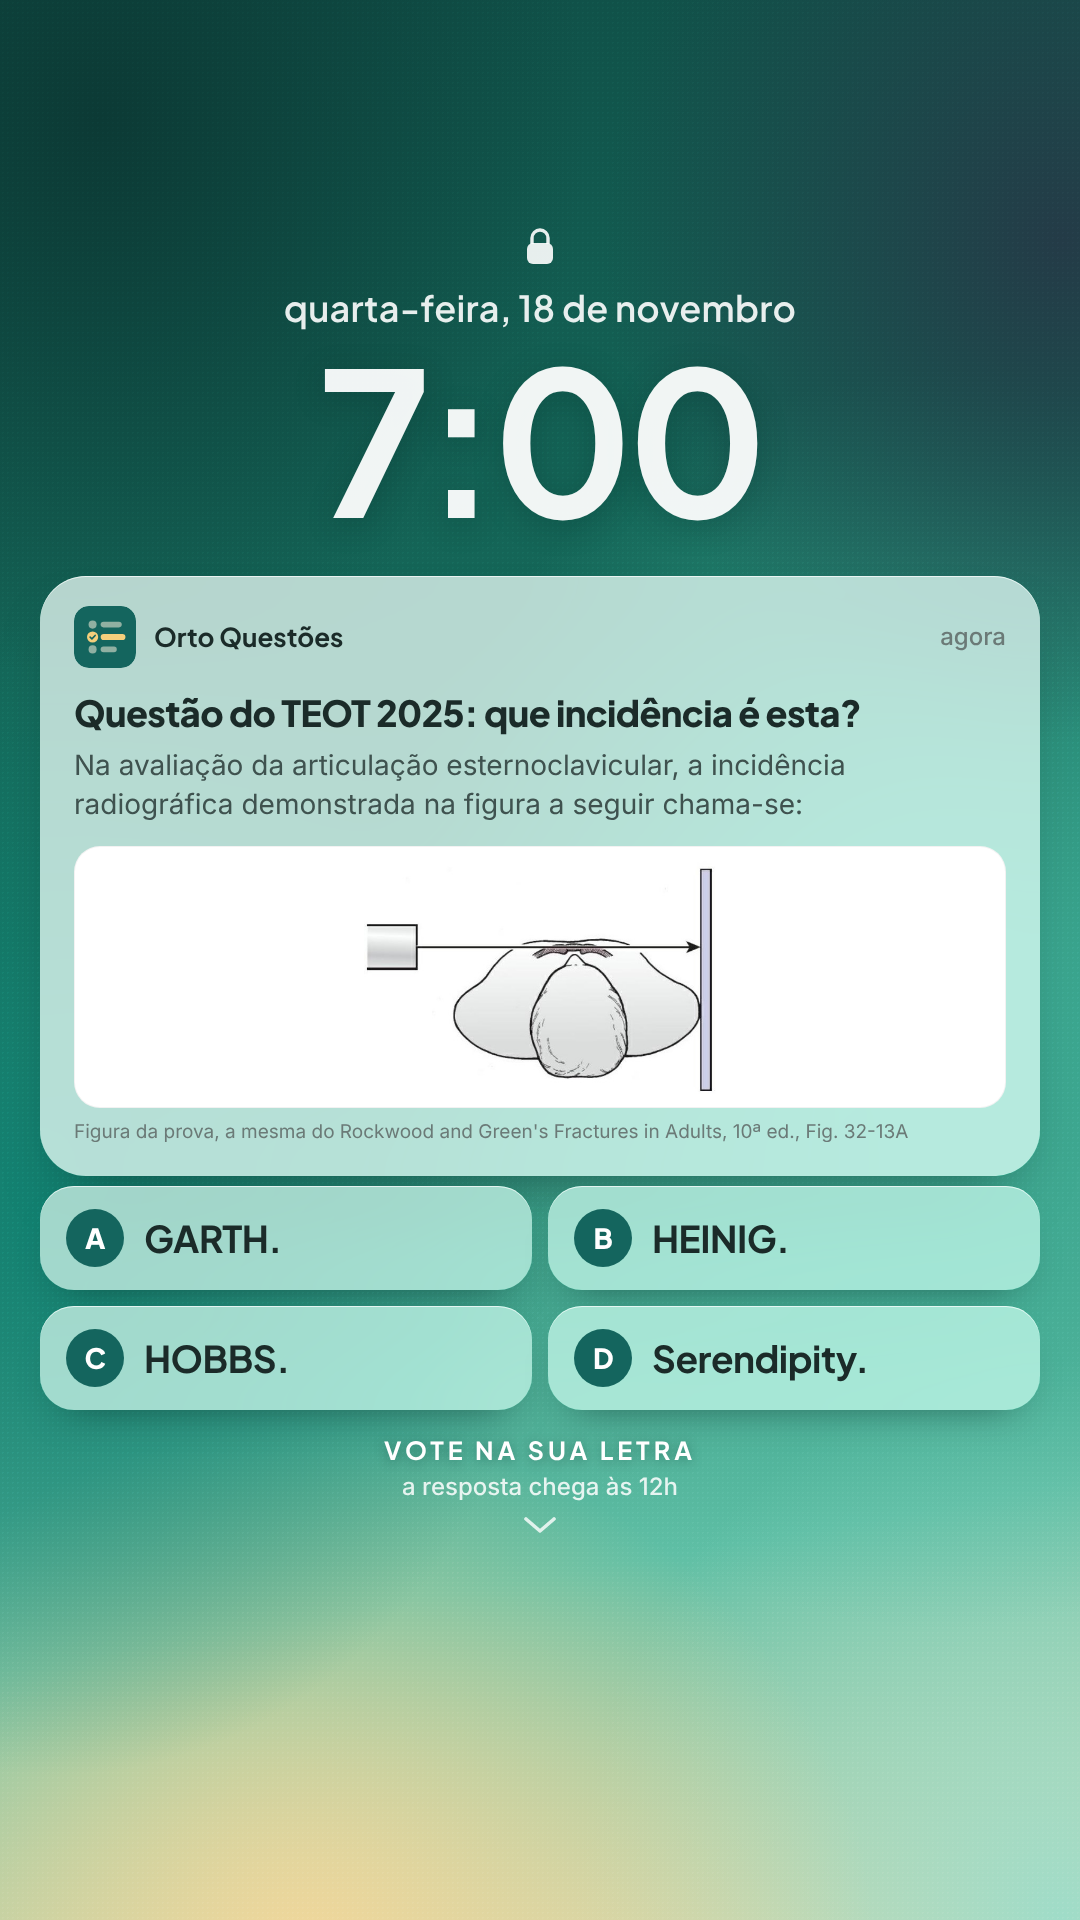
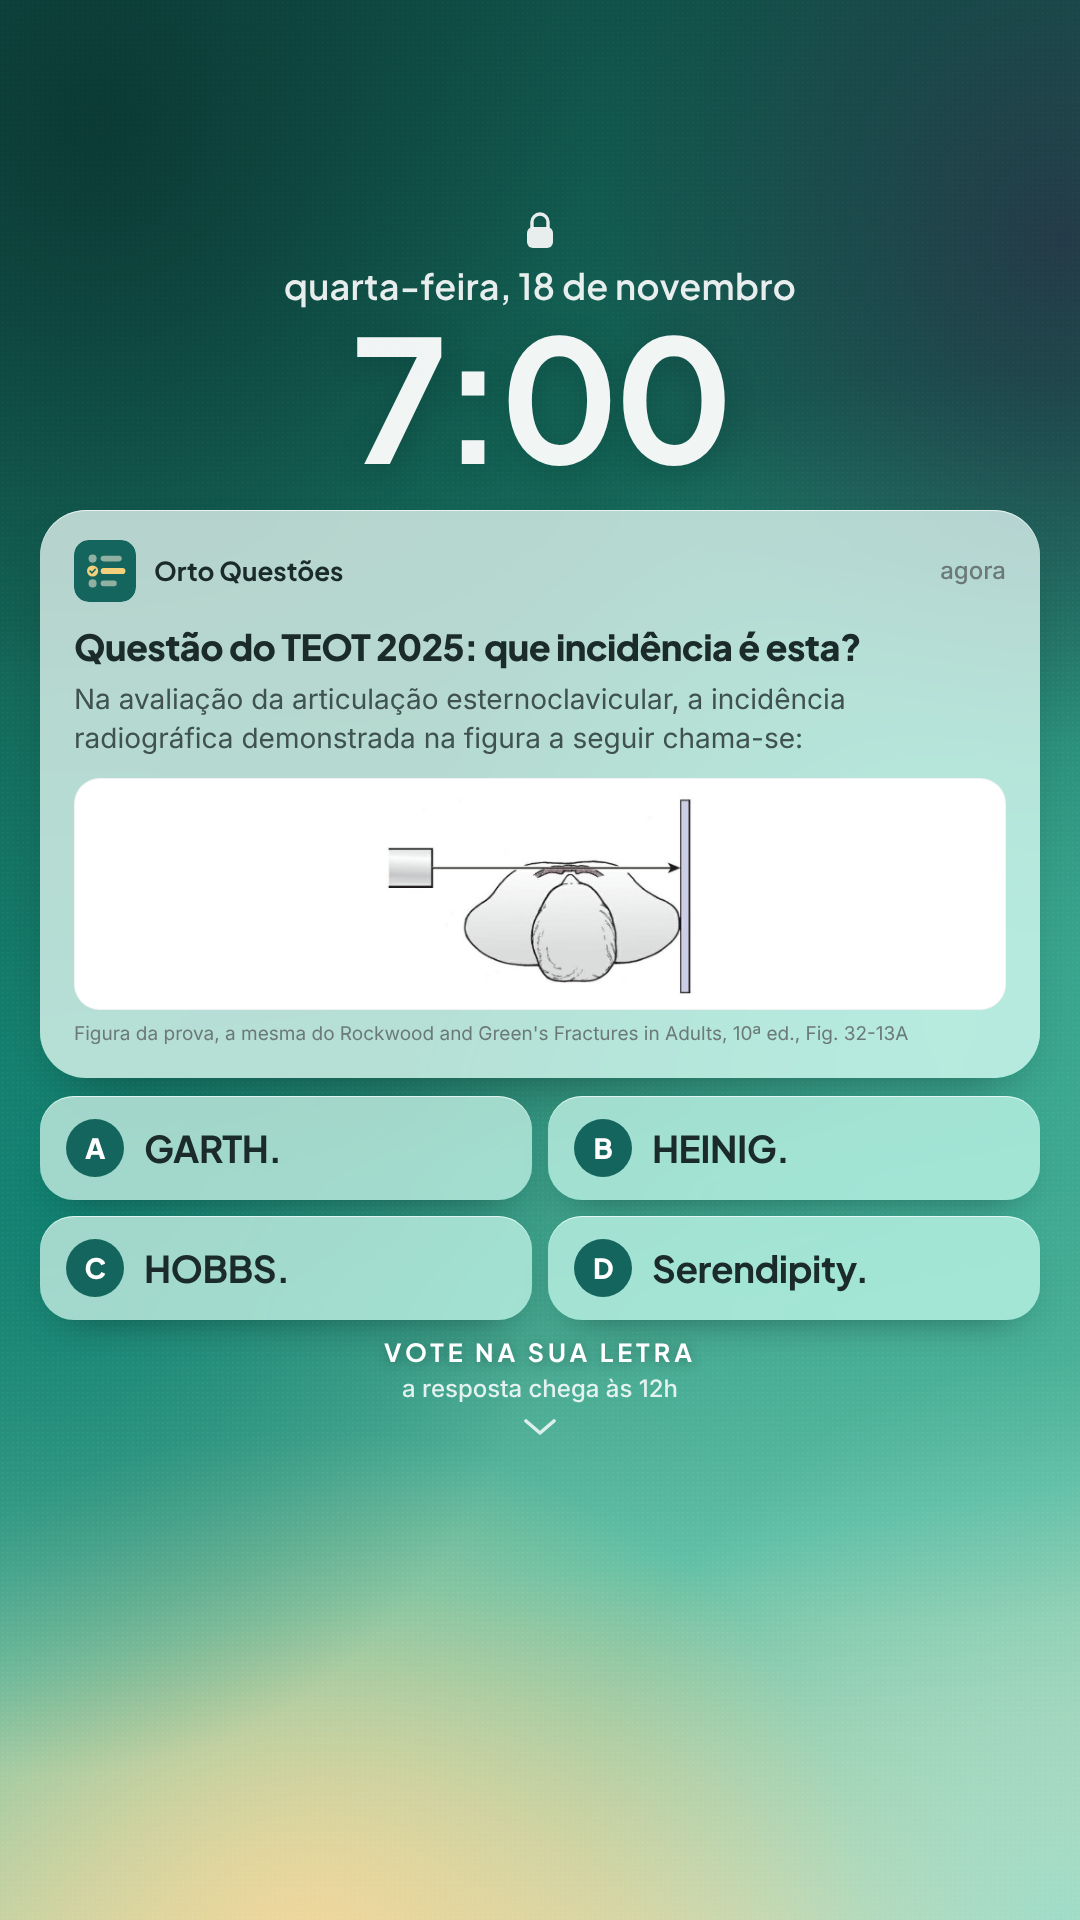
Story 1: sobe o conteúdo para deixar 450 px livres para a enquete
Claude-Session: https://claude.ai/code/session_01GbKh11zCitYpbRvWcxSxNK

Changed region(s): [[0.0306, 0.0938, 0.9778, 0.7812]]

diff --git a/marketing/instagram/estilos/stories-com-alternativas/modelo.html b/marketing/instagram/estilos/stories-com-alternativas/modelo.html
@@ -144,26 +144,26 @@ section { position: relative; overflow: hidden; width: 1080px; height: 1920px; m
 <section id="s1-questao">
   <div class="parede"></div><div class="grao"></div>
 
-  <svg class="cadeado" style="top:226px;" viewBox="0 0 30 40"><g fill="none" stroke="#fff" stroke-width="3.4" opacity=".9"><path d="M7 18v-6a8 8 0 0 1 16 0v6"/></g><rect x="2" y="17" width="26" height="21" rx="6" fill="#fff" opacity=".9"/></svg>
-  <div class="data" style="top:290px;">quarta-feira, 18 de novembro</div>
-  <div class="hora" style="top:336px;">7:00</div>
+  <svg class="cadeado" style="top:210px;" viewBox="0 0 30 40"><g fill="none" stroke="#fff" stroke-width="3.4" opacity=".9"><path d="M7 18v-6a8 8 0 0 1 16 0v6"/></g><rect x="2" y="17" width="26" height="21" rx="6" fill="#fff" opacity=".9"/></svg>
+  <div class="data" style="top:268px;">quarta-feira, 18 de novembro</div>
+  <div class="hora" style="top:310px; font-size:170px; letter-spacing:-6px;">7:00</div>
 
-  <div class="notif" style="top:576px;">
+  <div class="notif" style="top:510px;">
     <div class="cab"><svg viewBox="0 0 100 100"><use href="#ladrilho"/></svg><span class="app">Orto Questões</span><span class="quando">agora</span></div>
     <h2 style="margin-top:24px;">Questão do TEOT 2025: que incidência é esta?</h2>
     <p style="margin-top:12px;">Na avaliação da articulação esternoclavicular, a incidência radiográfica demonstrada na figura a seguir chama-se:</p>
-    <div class="anexo" style="margin-top:22px; height:262px;"><img src="img/heinig-desenho.png" alt="" style="padding:14px 24px;"></div>
+    <div class="anexo" style="margin-top:20px; height:232px;"><img src="img/heinig-desenho.png" alt="" style="padding:14px 24px;"></div>
     <div class="fonte" style="margin-top:12px;">Figura da prova, a mesma do Rockwood and Green's Fractures in Adults, 10ª ed., Fig. 32-13A</div>
   </div>
 
-  <div class="acoes" style="top:1186px;">
+  <div class="acoes" style="top:1096px;">
     <div class="acao"><span class="l">A</span>GARTH.</div>
     <div class="acao"><span class="l">B</span>HEINIG.</div>
     <div class="acao"><span class="l">C</span>HOBBS.</div>
     <div class="acao"><span class="l">D</span>Serendipity.</div>
   </div>
 
-  <div class="dica" style="top:1438px;">
+  <div class="dica" style="top:1340px;">
     <div class="t">Vote na sua letra</div>
     <div class="s">a resposta chega às 12h</div>
     <svg viewBox="0 0 36 20"><use href="#seta"/></svg>

diff --git a/marketing/instagram/posts/2026-11-18-vidro-heinig/stories.html b/marketing/instagram/posts/2026-11-18-vidro-heinig/stories.html
@@ -142,26 +142,26 @@ section { position: relative; overflow: hidden; width: 1080px; height: 1920px; m
 <section id="s1-questao">
   <div class="parede"></div><div class="grao"></div>
 
-  <svg class="cadeado" style="top:226px;" viewBox="0 0 30 40"><g fill="none" stroke="#fff" stroke-width="3.4" opacity=".9"><path d="M7 18v-6a8 8 0 0 1 16 0v6"/></g><rect x="2" y="17" width="26" height="21" rx="6" fill="#fff" opacity=".9"/></svg>
-  <div class="data" style="top:290px;">quarta-feira, 18 de novembro</div>
-  <div class="hora" style="top:336px;">7:00</div>
+  <svg class="cadeado" style="top:210px;" viewBox="0 0 30 40"><g fill="none" stroke="#fff" stroke-width="3.4" opacity=".9"><path d="M7 18v-6a8 8 0 0 1 16 0v6"/></g><rect x="2" y="17" width="26" height="21" rx="6" fill="#fff" opacity=".9"/></svg>
+  <div class="data" style="top:268px;">quarta-feira, 18 de novembro</div>
+  <div class="hora" style="top:310px; font-size:170px; letter-spacing:-6px;">7:00</div>
 
-  <div class="notif" style="top:576px;">
+  <div class="notif" style="top:510px;">
     <div class="cab"><svg viewBox="0 0 100 100"><use href="#ladrilho"/></svg><span class="app">Orto Questões</span><span class="quando">agora</span></div>
     <h2 style="margin-top:24px;">Questão do TEOT 2025: que incidência é esta?</h2>
     <p style="margin-top:12px;">Na avaliação da articulação esternoclavicular, a incidência radiográfica demonstrada na figura a seguir chama-se:</p>
-    <div class="anexo" style="margin-top:22px; height:262px;"><img src="img/heinig-desenho.png" alt="" style="padding:14px 24px;"></div>
+    <div class="anexo" style="margin-top:20px; height:232px;"><img src="img/heinig-desenho.png" alt="" style="padding:14px 24px;"></div>
     <div class="fonte" style="margin-top:12px;">Figura da prova, a mesma do Rockwood and Green's Fractures in Adults, 10ª ed., Fig. 32-13A</div>
   </div>
 
-  <div class="acoes" style="top:1186px;">
+  <div class="acoes" style="top:1096px;">
     <div class="acao"><span class="l">A</span>GARTH.</div>
     <div class="acao"><span class="l">B</span>HEINIG.</div>
     <div class="acao"><span class="l">C</span>HOBBS.</div>
     <div class="acao"><span class="l">D</span>Serendipity.</div>
   </div>
 
-  <div class="dica" style="top:1438px;">
+  <div class="dica" style="top:1340px;">
     <div class="t">Vote na sua letra</div>
     <div class="s">a resposta chega às 12h</div>
     <svg viewBox="0 0 36 20"><use href="#seta"/></svg>

diff --git a/marketing/instagram/estilos/STORIES-COM-ALTERNATIVAS.md b/marketing/instagram/estilos/STORIES-COM-ALTERNATIVAS.md
@@ -34,7 +34,7 @@ De 2 a 3 stories, nesta ordem:
   o Tales achou feio ("o Instagram nunca consegue preencher da maneira correta"). Só o **espaço vazio** e,
   em cima dele, a dica discreta com uma setinha.
 - **Tamanho:** a enquete de 4 opções ocupa cerca de **480 × 450 px** no story de 1080 × 1920 (medido no print do
-  osteoma). Deixe pelo menos **450 px de altura livre**, de preferência entre 1330 e 1800 px, sem texto nem imagem
+  osteoma). Deixe pelo menos **450 px de altura livre** abaixo da dica (no modelo, de 1440 a 1900 px), sem texto nem imagem
   importante por baixo; o fundo pode continuar (degradê, cenário).
 - O Tales escolhe onde soltar a enquete; as alternativas escritas ficam **acima** da área, para que a enquete não
   cubra nenhuma delas.
